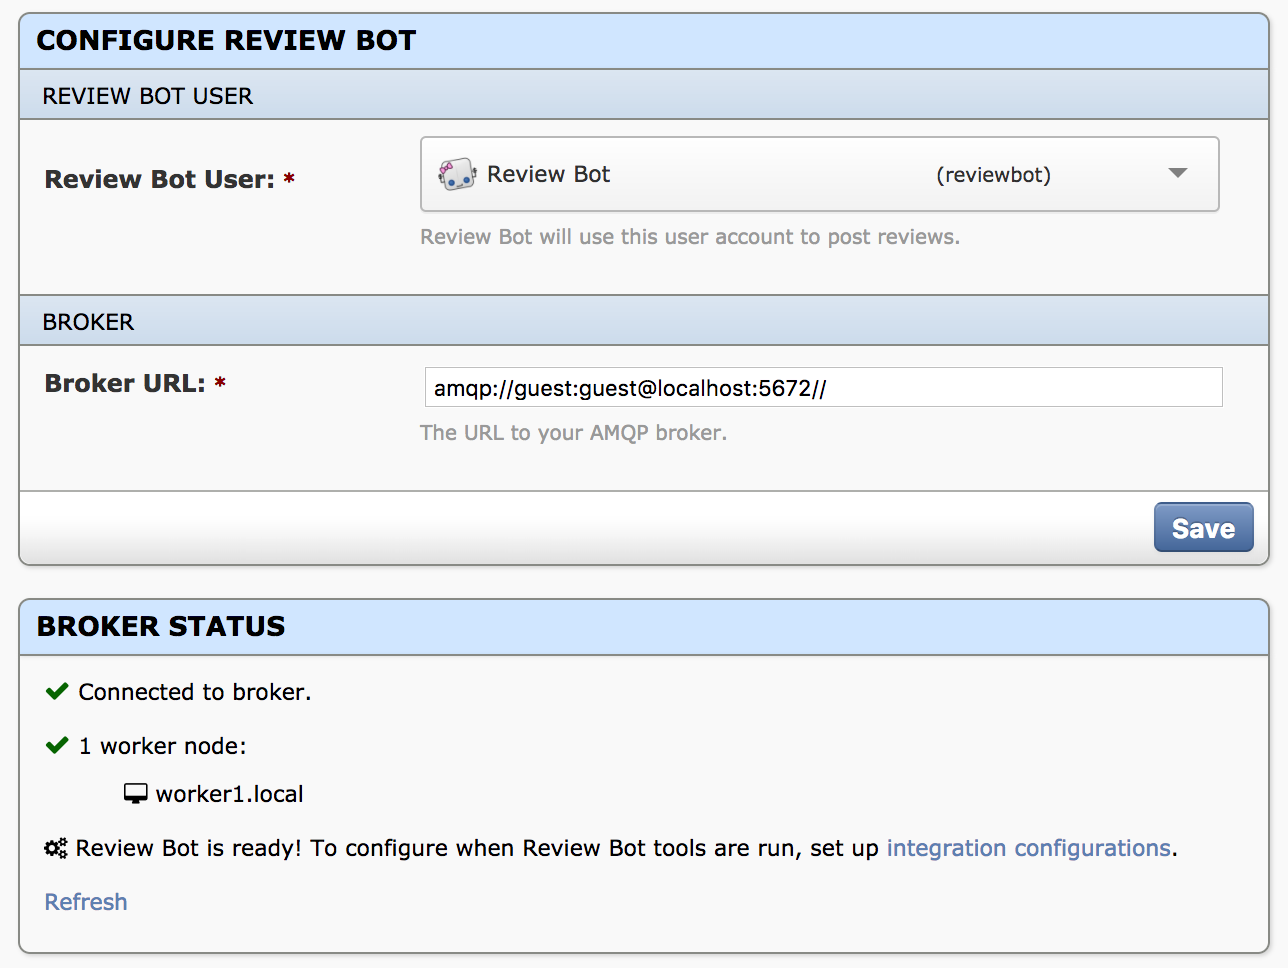
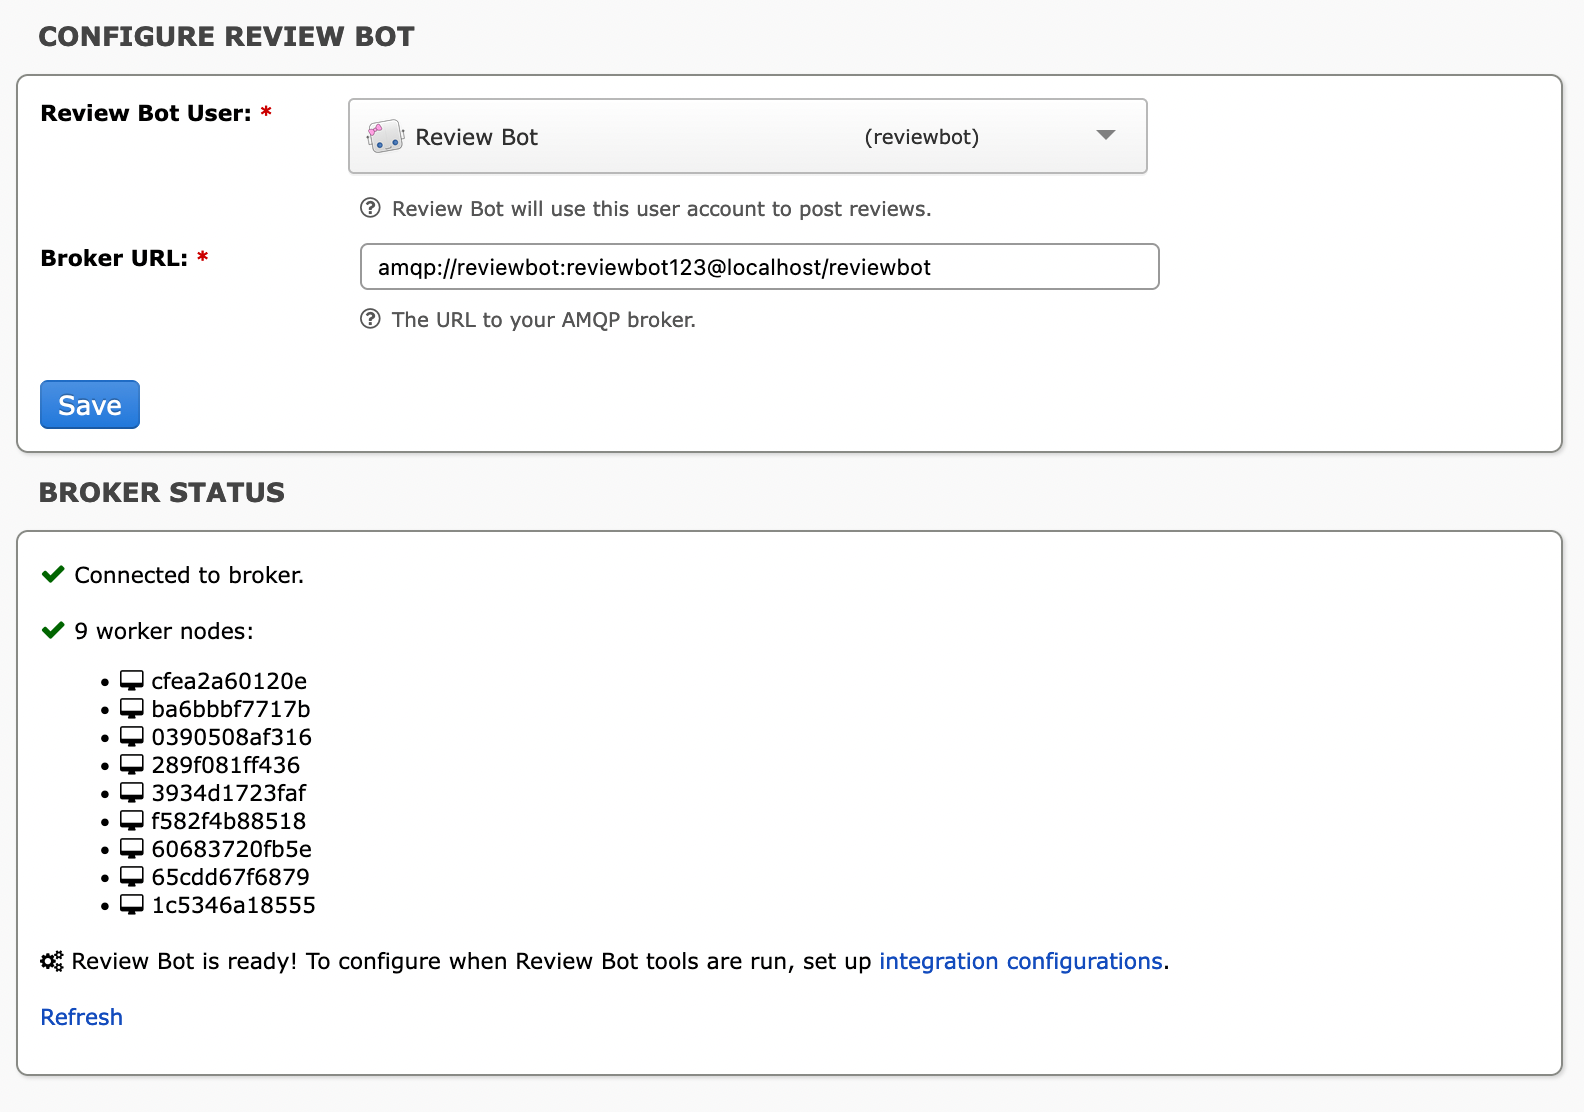
Update screenshots in the documentation for Review Board 4.
The screenshots that we had in the docs reflected the old administration
UI style, and the old integrations list style. This change updates the
documentation to reflect the current UIs found in Review Board 4 and up.

diff --git a/docs/reviewbot/configuration.rst b/docs/reviewbot/configuration.rst
@@ -17,7 +17,9 @@ set up the extension.
 
 There are two items that need to be set here: the user, and the broker URL.
 
-.. image:: extension-configuration.png
+.. image:: extension-configuration@2x.png
+   :width: 792
+   :height: 556
 
 
 Review Bot User
@@ -58,7 +60,9 @@ To set up a tool to run, open the Review Board administration page and click
 :guilabel:`Integrations` in the top bar. Under the Review Bot section, click
 :guilabel:`Add a new configuration`.
 
-.. image:: integrations-list.png
+.. image:: integrations-list@2x.png
+   :width: 795
+   :height: 355
 
 Each tool configuration allows you to specify a tool to run, the conditions for
 when that tool is run, and some options for how it is run.
@@ -72,7 +76,10 @@ Next, choose which tool to run. Once a tool is selected, additional
 tool-specific options may appear. See the documentation for the :ref:`tool
 <tools>` you want to configure for more information.
 
-.. image:: tool-configuration.png
+.. image:: tool-configuration@2x.png
+   :width: 807
+   :height: 905
+
 
 .. note:: It's important to be aware that tools will only run if they're
           currently available on a running worker node. If your worker dies,
